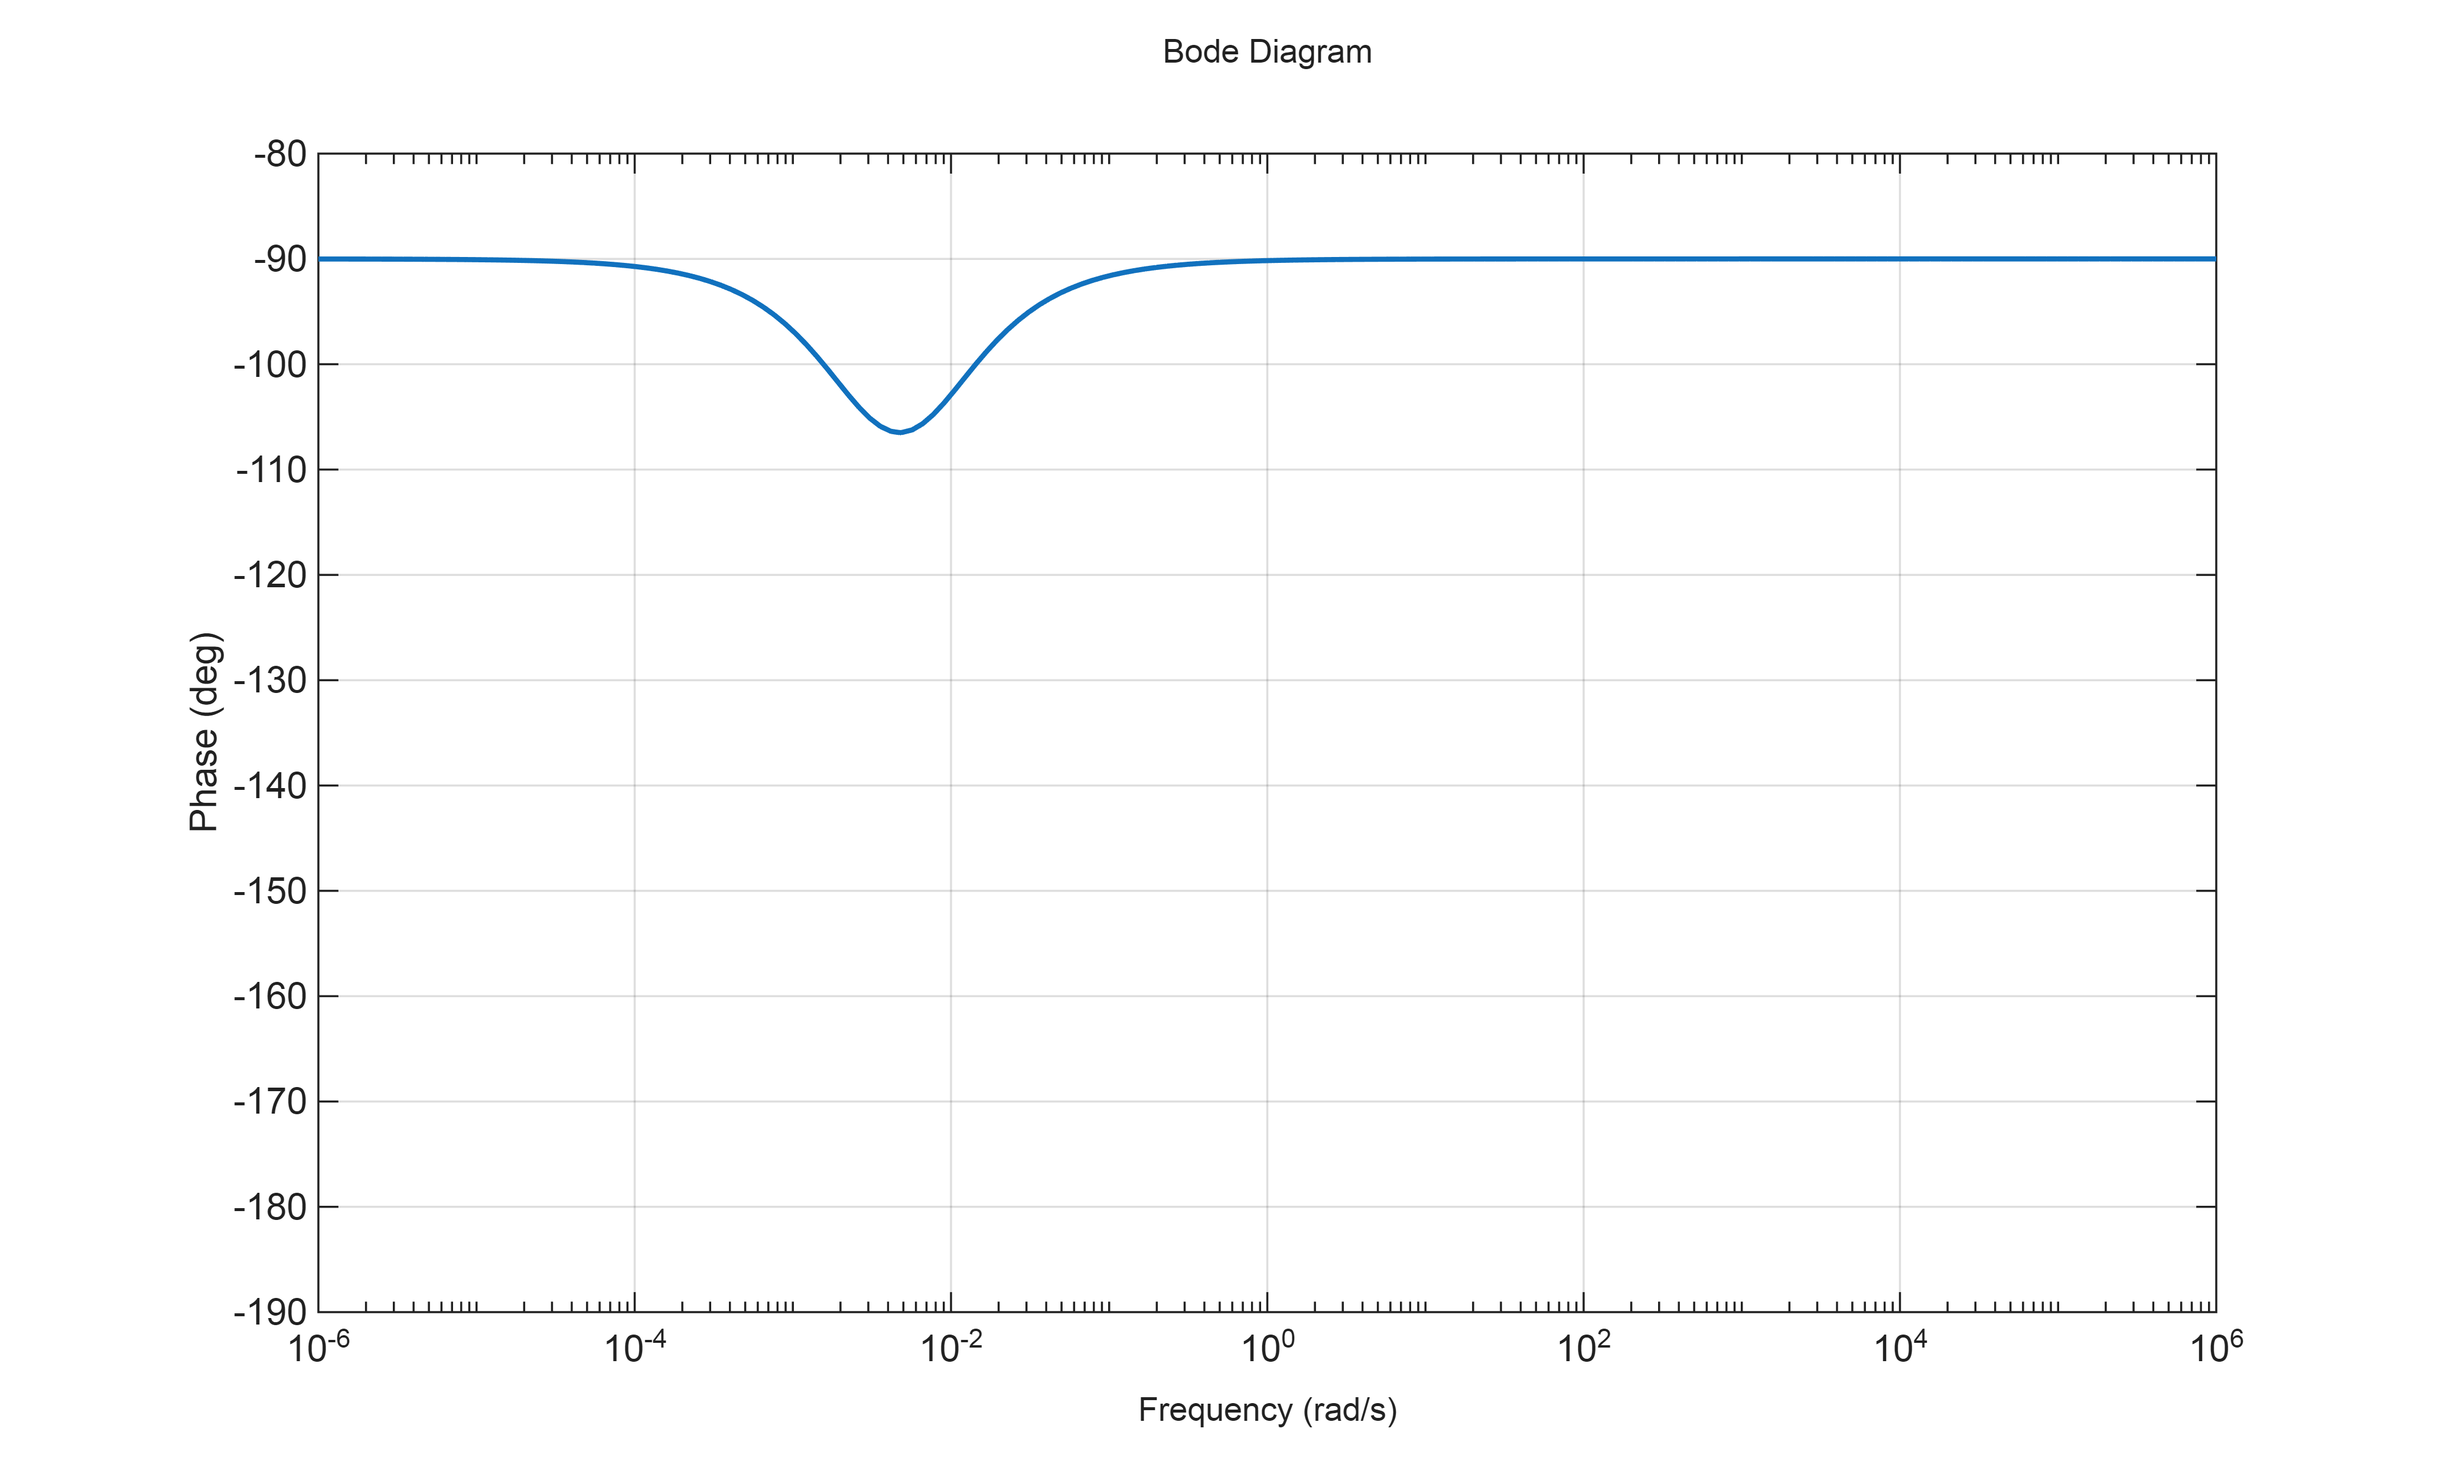
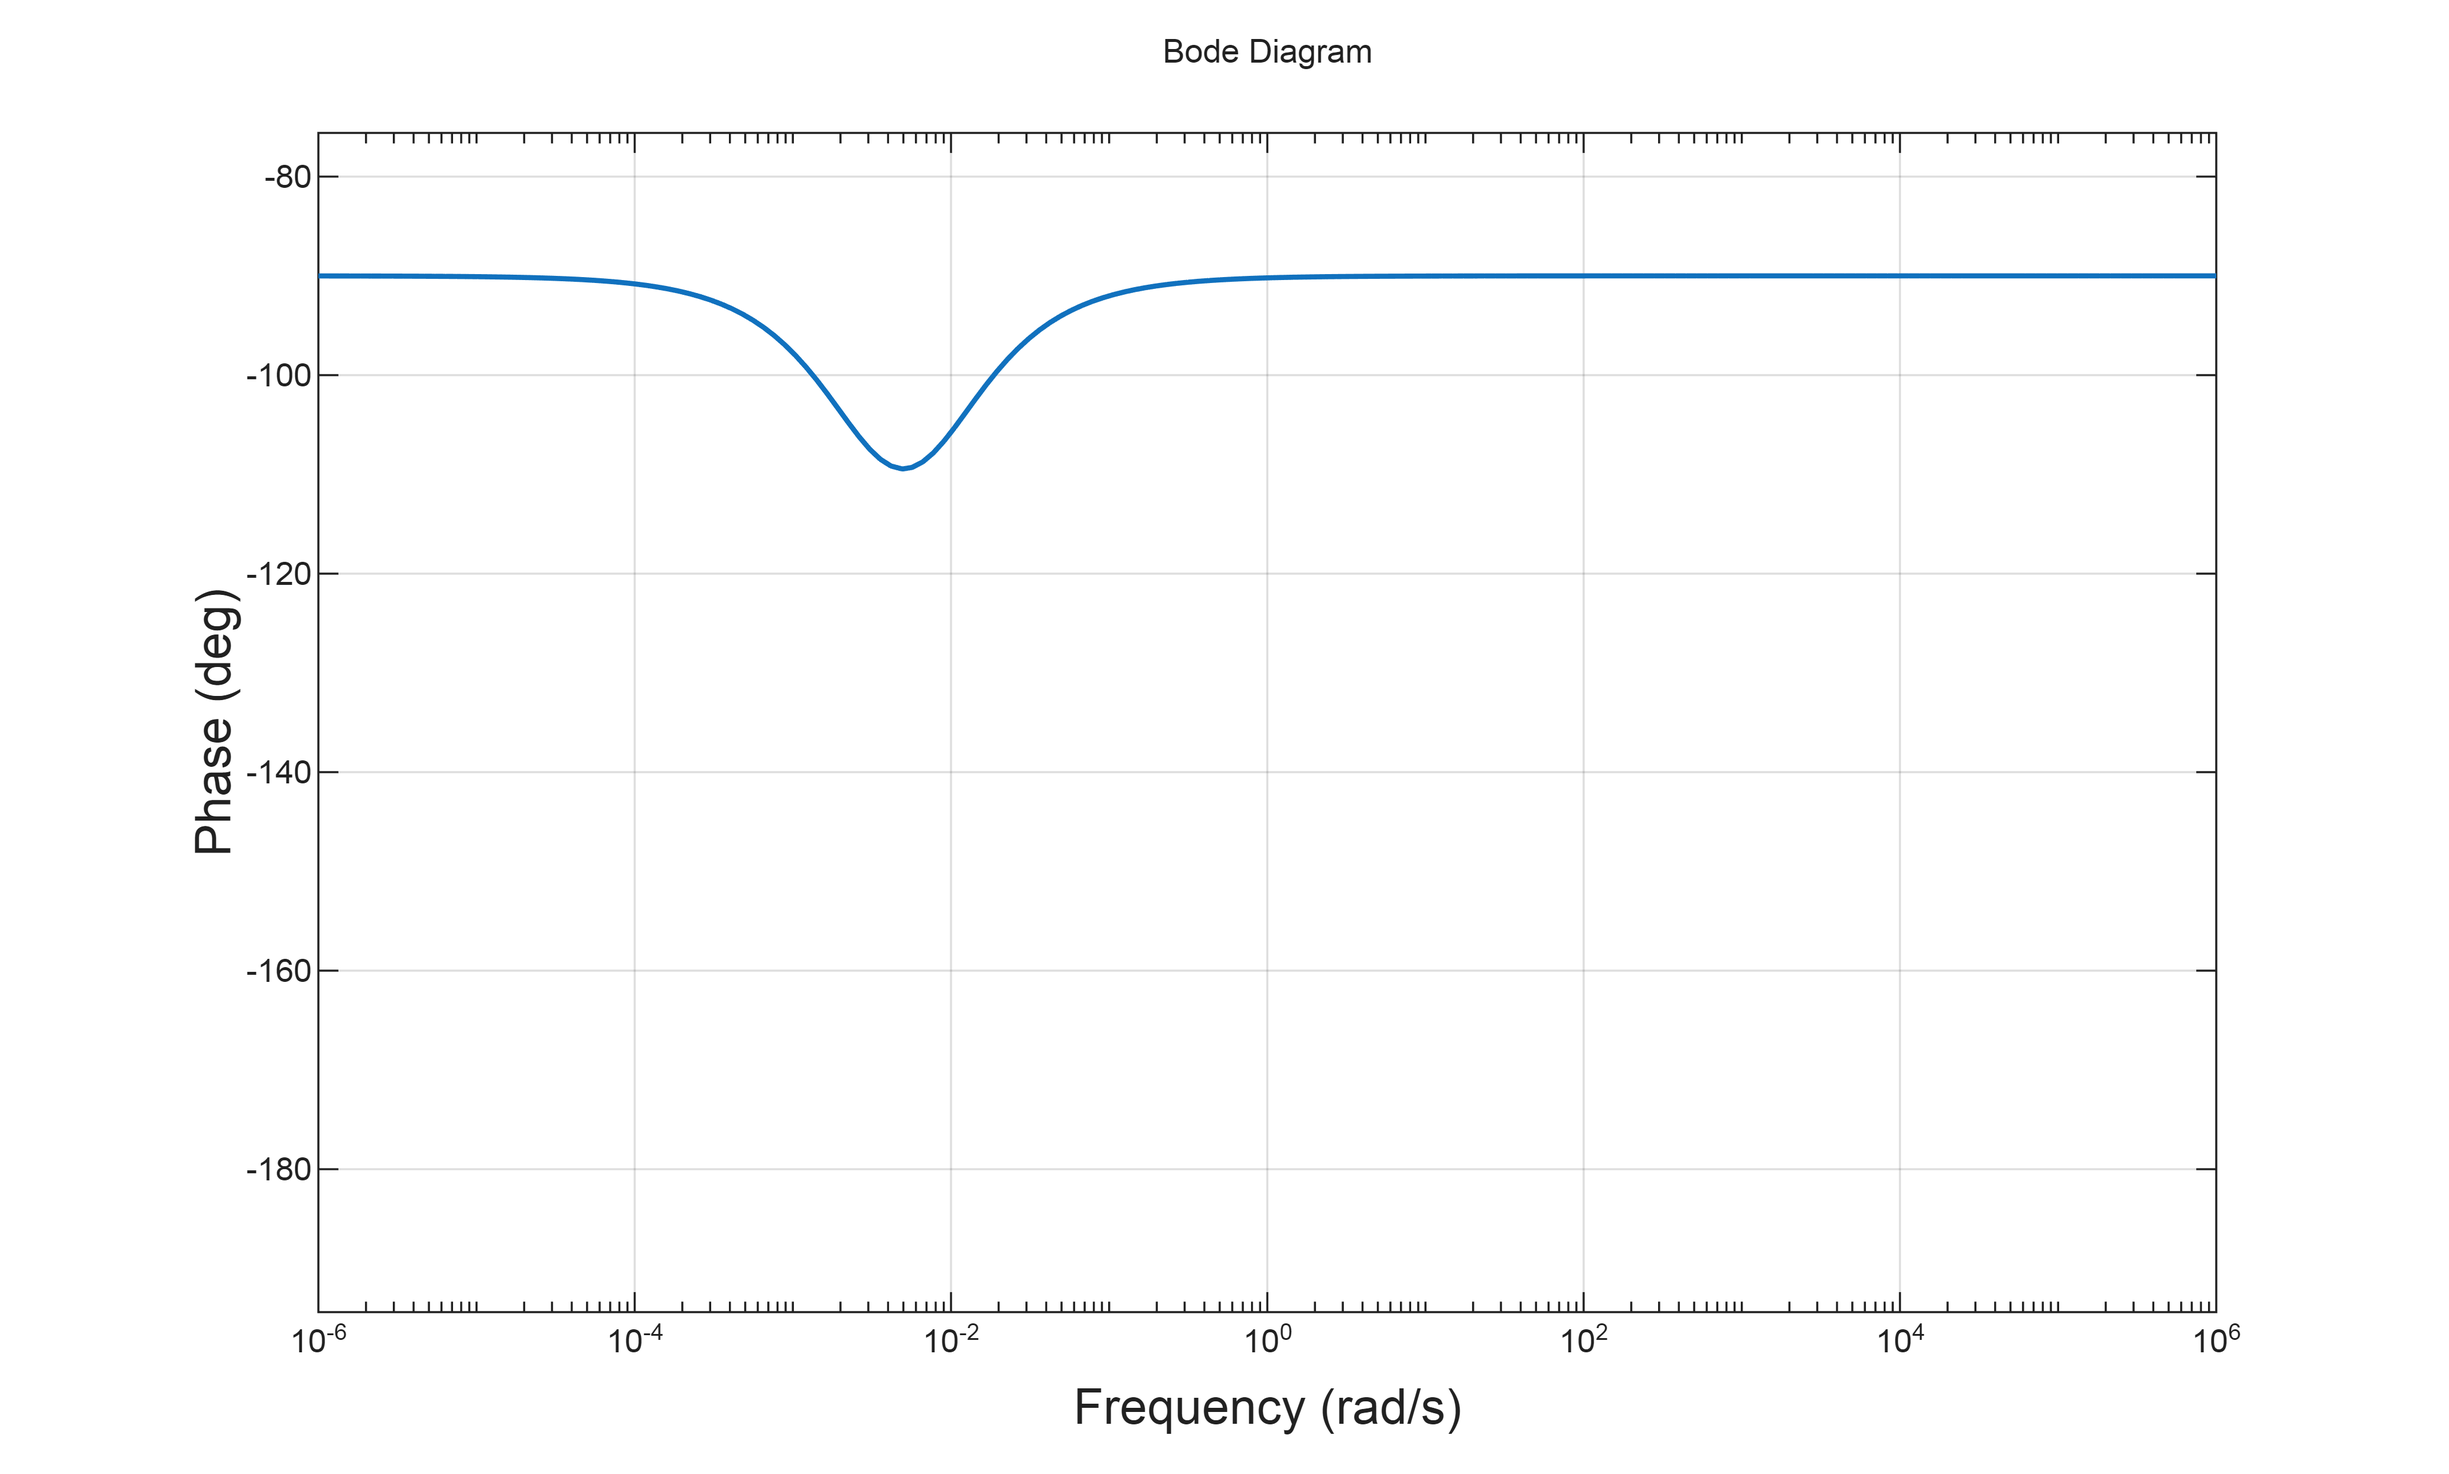
updated plots for t_s = 10 minutes

diff --git a/simulation/plots.m b/simulation/plots.m
@@ -9,8 +9,8 @@ clear; close all; clc;
 %% ===================== USER INPUT =====================
 
 % --- PI controller gains ---
-Kp = 0.022257;
-Ki = 0.000141;
+Kp = 0.028754;
+Ki = 0.000203;
 
 % --- Open-loop transfer function: L(s) = (Kp*s + Ki)/s * 96.7/(283*s + 1) ---
 num = 96.7 * [Kp Ki];                            % numerator
@@ -29,8 +29,10 @@ dpi = 500;
 
 % --- Figure adjustments ---
 lwAdd   = 0.75;   % line width added to the default (pt)
-fsAdd   = 1;      % font size added to the default (pt)
-yPad    = 0.08;   % extra vertical spacing: 8% of the axis range above and below
+fsAdd   = 3;      % font size added to the default (pt)
+yPad    = 0.04;   % extra vertical spacing: 4% of the axis range above and below
+nyqFsAdd = fsAdd - 1;   % Nyquist text 1 pt smaller than the other figures
+bodeLblAdd = 2;  % extra pt for the Bode axis titles (on top of fsAdd)
 nyqXPad = 0.10;   % extra horizontal spacing for the Nyquist plot (each side)
 
 %% ===================== SYSTEM =====================
@@ -45,7 +47,10 @@ opts.YLim         = {[-120 100]; [-120 100]};     % {magnitude (dB); phase (deg)
 hfig = figure;
 bodeplot(sys, {wmin, wmax}, opts);
 grid on
+padAxes(hfig, 0, yPad);                          % vertical padding only (4%)
 styleFigure(hfig, lwAdd, fsAdd);
+boxAxes(hfig);                                   % boxed axes
+enlargeLabels(hfig, bodeLblAdd);                     % larger Bode axis titles
 savefig(hfig, [fname_bode_mag '.fig']);
 print(hfig, fname_bode_mag, '-dpng', ['-r' num2str(dpi)], '-vector');
 
@@ -58,7 +63,10 @@ opts.YLim       = {[-190 -80]; [-190 -80]};
 hfig = figure;
 bodeplot(sys, {wmin, wmax}, opts);
 grid on
+padAxes(hfig, 0, yPad);                          % vertical padding only (4%)
 styleFigure(hfig, lwAdd, fsAdd);
+boxAxes(hfig);                                   % boxed axes
+enlargeLabels(hfig, bodeLblAdd);                     % larger Bode axis titles
 savefig(hfig, [fname_bode_phase '.fig']);
 print(hfig, fname_bode_phase, '-dpng', ['-r' num2str(dpi)], '-vector');
 
@@ -74,7 +82,9 @@ for k = 1:numel(ax)
     ax(k).XLim = nyqXLim;
     ax(k).YLim = nyqYLim;
 end
-styleFigure(hfig, lwAdd, fsAdd);
+padAxes(hfig, nyqXPad, yPad);                    % 10% horizontal, 4% vertical
+styleFigure(hfig, lwAdd, nyqFsAdd);
+boxAxes(hfig);                                   % boxed axes
 savefig(hfig, [fname_nyquist '.fig']);
 print(hfig, fname_nyquist, '-dpng', ['-r' num2str(dpi)], '-vector');
 
@@ -89,6 +99,23 @@ function ax = visibleAxes(hfig)
         keep(k) = strcmp(char(ax(k).Visible), 'on');
     end
     ax = ax(keep);
+end
+
+function boxAxes(hfig)
+    % boxed axes (matches time_response.m)
+    ax = visibleAxes(hfig);
+    for k = 1:numel(ax)
+        box(ax(k), 'on');
+    end
+end
+
+function enlargeLabels(hfig, extra)
+    % make the axis titles (x/y labels) 'extra' pt larger than the current size
+    fo = findall(hfig, '-property', 'XLabel');
+    for k = 1:numel(fo)
+        try, fo(k).XLabel.FontSize = fo(k).XLabel.FontSize + extra; catch, end
+        try, fo(k).YLabel.FontSize = fo(k).YLabel.FontSize + extra; catch, end
+    end
 end
 
 function padAxes(hfig, xPad, yPad)

diff --git a/simulation/time_response.m b/simulation/time_response.m
@@ -1,0 +1,88 @@
+%% time_response.m
+% Plot time response from 0 to 2000 seconds for output 'temp'
+% Saved as .fig and as a 500 dpi .png, matching academic styling.
+clear; close all; clc;
+
+%% ===================== USER INPUT =====================
+% --- Simulation settings ---
+t_final = 2000;          % simulation end time (seconds)
+fname   = 'temp_response';
+dpi     = 500;
+
+% --- Figure adjustments ---
+lwAdd   = 0.75;   % line width added to the default (pt)
+fsAdd   = 1;      % font size added to the default (pt)
+yPad    = 0.04;   % extra vertical spacing: 4% of the axis range above and below
+xPad    = 0.00;   % extra horizontal spacing
+
+%% ===================== SIMULATION & DATA EXTRACTION =====================
+% Ensure your To Workspace block has 'Save format' set to 'Timeseries' 
+% and variable name set to 'temp'.
+out = sim('thermobox'); 
+
+% Extract time and temperature data from the To Workspace timeseries object
+t = out.temp.Time;
+y = out.temp.Data;
+
+%% ===================== PLOTTING =====================
+hfig = figure;
+plot(t, y, 'LineWidth', 1.0); % Base width, will be incremented by styleFigure
+grid on
+box on
+
+% --- Axis Limits & Padding ---
+xlim([0 t_final]);
+padAxes(hfig, xPad, yPad);
+
+% --- Labels & Title ---
+xlabel('Time (s)', 'FontWeight', 'bold');
+ylabel('Temperature (°C)', 'FontWeight', 'bold');
+title('System Temperature Response', 'FontWeight', 'bold');
+
+% --- Apply Aesthetic Style ---
+styleFigure(hfig, lwAdd, fsAdd);
+
+% --- Save Outputs ---
+savefig(hfig, [fname '.fig']);
+print(hfig, fname, '-dpng', ['-r' num2str(dpi)], '-vector');
+
+%% ===================== LOCAL FUNCTIONS =====================
+% (must stay at the END of the script file)
+function ax = visibleAxes(hfig)
+    % all visible axes of the figure
+    ax = findall(hfig, 'Type', 'axes');
+    keep = false(size(ax));
+    for k = 1:numel(ax)
+        keep(k) = strcmp(char(ax(k).Visible), 'on');
+    end
+    ax = ax(keep);
+end
+
+function padAxes(hfig, xPad, yPad)
+    % extend axis limits by a fraction of the current range on each side
+    ax = visibleAxes(hfig);
+    for k = 1:numel(ax)
+        if xPad > 0
+            xl = ax(k).XLim;  r = diff(xl);
+            ax(k).XLim = xl + xPad*r*[-1 1];
+        end
+        yl = ax(k).YLim;  r = diff(yl);
+        ax(k).YLim = yl + yPad*r*[-1 1];
+    end
+end
+
+function styleFigure(hfig, lwAdd, fsAdd)
+    % thicker lines and larger text (relative to the current values)
+    ln = findall(hfig, 'Type', 'line');
+    for k = 1:numel(ln)
+        ln(k).LineWidth = ln(k).LineWidth + lwAdd;
+    end
+    fo = findall(hfig, '-property', 'FontSize');
+    sz = zeros(size(fo));
+    for k = 1:numel(fo)
+        sz(k) = fo(k).FontSize;                  % read all sizes first
+    end
+    for k = 1:numel(fo)
+        fo(k).FontSize = sz(k) + fsAdd;
+    end
+end

diff --git a/simulation/pz_map.m b/simulation/pz_map.m
@@ -9,8 +9,8 @@ clear; close all; clc;
 %% ===================== USER INPUT =====================
 
 % --- PI controller gains ---
-Kp = 0.022257;
-Ki = 0.000141;
+Kp = 0.028754;
+Ki = 0.000203;
 
 % --- Closed-loop transfer function (unity negative feedback) ---
 %   T(s) = 96.7*(Kp*s + Ki) / ( 283*s^2 + (1 + 96.7*Kp)*s + 96.7*Ki )
@@ -25,7 +25,8 @@ dpi = 500;
 % --- Figure adjustments ---
 lwAdd   = 0.75;   % line width added to the default (pt)
 fsAdd   = 1;      % font size added to the default (pt)
-yPad    = 0.08;   % extra vertical spacing: 8% of the axis range above and below
+pzLwAdd = 1.5;    % extra line width for the pole/zero markers (pt)
+yPad    = 0.04;   % extra vertical spacing: 4% of the axis range above and below
 lblGap  = 0.04;   % distance between marker and label (fraction of y-range)
 
 %% ===================== SYSTEM =====================
@@ -41,6 +42,8 @@ hfig = figure;
 pzmap(sys);
 grid on
 styleFigure(hfig, lwAdd, fsAdd);                 % thicker lines, larger text
+boxAxes(hfig);                                   % boxed axes
+thickenMarkers(hfig, pzLwAdd);                   % thicker poles (x) and zeros (o)
 
 % --- labels next to every pole and zero ---
 ax  = visibleAxes(hfig);  ax = ax(1);
@@ -68,7 +71,7 @@ for k = 1:numel(lbl)
     yl = [min(yl(1), e(2)), max(yl(2), e(2)+e(4))];
 end
 ax.XLim = xl;  ax.YLim = yl;
-padAxes(hfig, yPad);                       % extra spacing
+padAxes(hfig, 0, yPad);                          % vertical padding only (4%)
 
 savefig(hfig, [fname_pzmap '.fig']);
 print(hfig, fname_pzmap, '-dpng', ['-r' num2str(dpi)], '-vector');
@@ -92,6 +95,27 @@ function ax = visibleAxes(hfig)
         keep(k) = strcmp(char(ax(k).Visible), 'on');
     end
     ax = ax(keep);
+end
+
+function boxAxes(hfig)
+    % boxed axes (matches time_response.m)
+    ax = visibleAxes(hfig);
+    for k = 1:numel(ax)
+        box(ax(k), 'on');
+    end
+end
+
+function thickenMarkers(hfig, extra)
+    % thicker pole/zero markers: every graphics object that draws a marker
+    fo = findall(hfig, '-property', 'Marker');
+    for k = 1:numel(fo)
+        try
+            if ~strcmp(char(fo(k).Marker), 'none')
+                fo(k).LineWidth = fo(k).LineWidth + extra;
+            end
+        catch
+        end
+    end
 end
 
 function padAxes(hfig, xPad, yPad)
